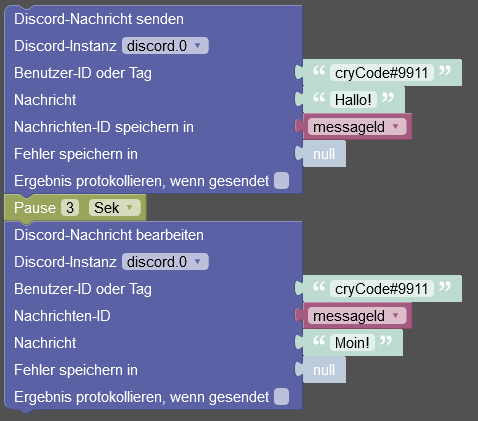
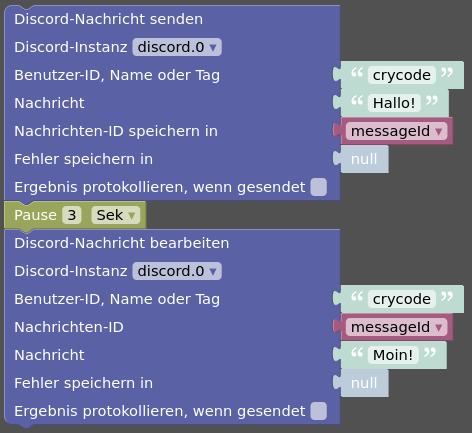
Updated docs

diff --git a/docs/de/README.md b/docs/de/README.md
@@ -188,7 +188,7 @@ Bots festzulegen, wie es den Benutzern angezeigt werden soll.
 | `members` | Mit Komma getrennte Liste der Mitglieder (Anzeigenamen) des Kanals. |
 | `message` | Letzte empfangene Nachricht in diesem Kanal. |
 | `messageId` | ID der letzten empfangenen Nachricht. |
-| `messageAuthor` | Verfasser (Benutzer-Tag) der letzten empfangenen Nachricht. |
+| `messageAuthor` | Verfasser (einmaliger Benutzername oder Benutzer-Tag) der letzten empfangenen Nachricht. |
 | `messageTimestamp` | Zeitstempel der letzten empfangenen Nachricht. |
 | `messageJson` | JSON-Daten der letzten empfangenen Nachricht. |
 | `send` | Senden von Texten oder JSON-formatierten Nachrichten. |
@@ -204,6 +204,7 @@ Zu allen `message*` und `send*` Zuständen siehe den Abschnitt _Nachrichten_ wei
 | Name | Beschreibung |
 |---|---|
 | `tag` | Der eindeutige Tag des Benutzers in Discord. |
+| `name` | Der Name des Benutzers in Discord. (einmalig, wenn `tag` mit `#0` endet) |
 | `displayName` | Der Anzeigename des Benutzers auf dem Server. |
 | `roles` | Mit Komma getrennte Liste der Rollen des Benutzers auf dem Server. |
 | `joinedAt` | Zeitstempel, wann der Benutzer dem Server beigetreten ist. |
@@ -223,6 +224,7 @@ Für die Verwendung der Aktionen `voiceDisconnect`, `voiceServerDeaf` und `voice
 | Name | Beschreibung |
 |---|---|
 | `tag` | Der eindeutige Tag des Benutzers in Discord. |
+| `name` | Der Name des Benutzers in Discord. (einmalig, wenn `tag` mit `#0` endet) |
 | `status` | Der Anwesenheitsstatus des Benutzers. Eins von `online`, `offline`, `idle`, `dnd` |
 | `activityType` | Die Art der momentanen Aktivität des Benutzers. Eins von `Playing`, `Streaming`, `Listening`, `Watching`, `Competing`, `Custom` oder ein leerer String. |
 | `activityName` | Der Name der momentanen Aktivität des Benutzers. Z.B. der Name eines Spiels während `Playing`. |
@@ -257,6 +259,7 @@ aktualisiert.
 | `interactionId` | ID der letzten Nutzung des Befehls. |
 | `userId` | ID des Benutzers, der den Befehl aufgerufen hat. |
 | `userTag` | Eindeutiger Tag des Benutzers, der den Befehl aufgerufen hat. |
+| `userName` | Der Name des Benutzers, der den Befehl aufgerufen hat. (einmalig, wenn `userTag` mit `#0` endet) |
 | `channelId` | ID des Kanals, in dem der Befehl aufgerufen wurde. |
 | `serverId` | ID des Servers, in dem der Befehl aufgerufen wurde, oder `null` wenn der Befehl in einer Direktnachricht aufgerufen wurde. |
 | `timestamp` | Zeitstempel der letzten Nutzung des Befehls. |
@@ -642,6 +645,7 @@ Dabei wird die Antwort editiert und mit dem neuen Inhalt überschrieben.
   user: {
     id: string,
     tag: string,
+    name: string,
     displayName: string,
   },
   channelId: string,
@@ -654,10 +658,13 @@ Dabei wird die Antwort editiert und mit dem neuen Inhalt überschrieben.
       user?: { // wenn type USER oder MENIONABLE ist
         id: string,
         tag: string,
+        name: string,
         bot: boolean,
       },
       member?: { // wenn type USER oder MENIONABLE ist und der Befehl auf einem Server aufgerufen wurde
         id: string,
+        tag: string,
+        name: string,
         displayName: string,
         roles: { id: string, name: string }[],
       },
@@ -702,12 +709,12 @@ Der Adapter bringt eigene Blockly-Blöcke mit, zum ...
   <variables>
     <variable id="KIILW$,(eB?pT`;GDuMF">messageId</variable>
   </variables>
-  <block type="discord_send_message_user" id="?xkCV};-Lk_-|Q`]%(Gt" x="63" y="38">
+  <block type="discord_send_message_user" id="?xkCV};-Lk_-|Q`]%(Gt" x="163" y="38">
     <field name="instance">.0</field>
     <field name="logResultOk">FALSE</field>
     <value name="user">
       <shadow type="text" id="jXN@CluUy_M/ig@4[(Uk">
-        <field name="TEXT">cryCode#9911</field>
+        <field name="TEXT">crycode</field>
       </shadow>
     </value>
     <value name="content">
@@ -734,7 +741,7 @@ Der Adapter bringt eigene Blockly-Blöcke mit, zum ...
             <field name="logResultOk">FALSE</field>
             <value name="user">
               <shadow type="text" id="voJ:{uuYtbBZ!Xe,rtV|">
-                <field name="TEXT">cryCode#9911</field>
+                <field name="TEXT">crycode</field>
               </shadow>
             </value>
             <value name="messageId">
@@ -897,7 +904,7 @@ Der Adapter bringt eigene Blockly-Blöcke mit, zum ...
 <xml xmlns="https://developers.google.com/blockly/xml">
   <variables>
     <variable id="Wcj[Gmy,vX]b,)s,O)`U">interactionId</variable>
-    <variable id="{sXn[Mn@ZN#fWtTV6O^;">userTag</variable>
+    <variable id="{sXn[Mn@ZN#fWtTV6O^;">userName</variable>
     <variable id="ULmVI=-QcXLnD!e60KTV">camID</variable>
   </variables>
   <block type="discord_on_custom_cmd" id="GE,i32wKhz%KGlBhV$j=" x="63" y="13">
@@ -909,11 +916,13 @@ Der Adapter bringt eigene Blockly-Blöcke mit, zum ...
     <value name="varUserId">
       <shadow type="logic_null" id="/}0,E!Gq=C2U]C^.8m1@"></shadow>
     </value>
+    <value name="varUserName">
+      <block type="variables_get" id="Q=v?u?yU}Tw*@FH*|x7.">
+        <field name="VAR" id="{sXn[Mn@ZN#fWtTV6O^;">userName</field>
+      </block>
+    </value>
     <value name="varUserTag">
       <shadow type="logic_null" id="+r2I4SpfhuW%9DE21,[c"></shadow>
-      <block type="variables_get" id="Q=v?u?yU}Tw*@FH*|x7.">
-        <field name="VAR" id="{sXn[Mn@ZN#fWtTV6O^;">userTag</field>
-      </block>
     </value>
     <value name="option0">
       <shadow type="logic_null" id="hL^g}gJg-b.+SOH0s9m1"></shadow>
@@ -944,7 +953,7 @@ Der Adapter bringt eigene Blockly-Blöcke mit, zum ...
                 </value>
                 <value name="ADD1">
                   <block type="variables_get" id="|[[T@|n1Ro{EU56/jJ@P">
-                    <field name="VAR" id="{sXn[Mn@ZN#fWtTV6O^;">userTag</field>
+                    <field name="VAR" id="{sXn[Mn@ZN#fWtTV6O^;">userName</field>
                   </block>
                 </value>
                 <value name="ADD2">
@@ -1031,6 +1040,7 @@ Der `message` Teil von `sendTo(...)` muss ein Objekt mit dem zu sendenden
 
 * `userId`
 * `userTag`
+* `userName`
 * `serverId` und `channelId`
 
 Der `content` kann ein einfacher String oder ein [MessageOptions]-Objekt sein.
@@ -1043,7 +1053,23 @@ Falle eines Fehlers enthält.
 Beispiele:
 
 ```js
-// Senden einer Nachricht zu einem Benutzer
+// Senden einer Nachricht zu einem Benutzer bei Verwendung des einmaligen Benutzernamens
+sendTo('discord.0', 'sendMessage', {
+  userName: 'crycode',
+  content: 'Hi!',
+}, (ret) => {
+  log(ret);
+  // {'result':'Message sent to user crycode','userName':'crycode','content':'Hi!','messageId':'971779972052155891'}
+
+  if (ret.error) {
+    log(ret.error, 'error');
+    return;
+  }
+  log(`Nachricht gesendet mit ID ${ret.messageId}`);
+});
+
+// Senden einer Nachricht zu einem Benutzer bei Verwendung des Benutzer-Tags
+// (für Bots und Benutzer, die noch nicht zu einem einmaligen Benutzernamen migriert sind)
 sendTo('discord.0', 'sendMessage', {
   userTag: 'cryCode#9911',
   content: 'Hi!',
@@ -1069,7 +1095,7 @@ sendTo('discord.0', 'sendMessage', {
   },
 }, (ret) => {
   log(ret);
-  // {'result':'Message sent to user cryCode#9911','userId':'490222742801481728','content':{'content':'Ok!','reply':{'messageReference':'971779972052160552'}},'messageId':'971786369401761832'}
+  // {'result':'Message sent to user crycode','userId':'490222742801481728','content':{'content':'Ok!','reply':{'messageReference':'971779972052160552'}},'messageId':'971786369401761832'}
 });
 
 // Senden einer Datei an einen Serverkanal
@@ -1107,17 +1133,17 @@ Beispiele:
 ```js
 // Eine Nachricht bearbeiten
 sendTo('discord.0', 'editMessage', {
-  userTag: 'cryCode#9911',
+  userName: 'crycode',
   content: 'Hallo!',
   messageId: '971495175367049276',
 }, (ret) => {
   log(ret);
-  // {'result':'Message edited','userTag':'cryCode#9911','content':'Hallo!','messageId':'971495175367049276'}
+  // {'result':'Message edited','userName':'crycode','content':'Hallo!','messageId':'971495175367049276'}
 });
 
 // Nachricht senden und nach fünf Sekunden bearbeiten
 sendTo('discord.0', 'sendMessage', {
-    userTag: 'cryCode#9911',
+    userName: 'crycode',
     content: 'Es ist jetzt: ' + new Date().toLocaleString(),
 }, (ret) => {
   if (ret.error) {
@@ -1126,12 +1152,12 @@ sendTo('discord.0', 'sendMessage', {
   }
   setTimeout(() => {
     sendTo('discord.0', 'editMessage', {
-      userTag: 'cryCode#9911',
+      userName: 'crycode',
       content:  'Es ist jetzt: ' + new Date().toLocaleString(),
       messageId: ret.messageId,
     }, (ret2) => {
       log(ret2);
-      // {'result':'Message edited','userTag':'cryCode#9911','content':'Es ist jetzt: 5.5.2022, 16:25:38','messageId':'971779692166266920'}
+      // {'result':'Message edited','userName':'crycode','content':'Es ist jetzt: 5.5.2022, 16:25:38','messageId':'971779692166266920'}
     });
   }, 5000);
 });
@@ -1153,11 +1179,11 @@ Beispiel:
 ```js
 // Löschen einer Nachricht
 sendTo('discord.0', 'deleteMessage', {
-  userTag: 'cryCode#9911',
+  userName: 'crycode',
   messageId: '971495175367049276',
 }, (ret) => {
   log(ret);
-  // {'result':'Message deleted','userTag':'cryCode#9911','messageId':'971495175367049276'}
+  // {'result':'Message deleted','userName':'crycode','messageId':'971495175367049276'}
 });
 ```
 
@@ -1177,12 +1203,12 @@ Beispiel:
 ```js
 // Hinzufügen einer Reaktion auf eine Nachricht
 sendTo('discord.0', 'addReaction', {
-  userTag: 'cryCode#9911',
+  userName: 'crycode',
   messageId: '971786369401761832',
   emoji: '😎',
 }, (ret) => {
   log(ret);
-  // {'result':'Reaction added to message','userTag':'cryCode#9911','messageId':'971786369401761832','emoji':'😎'}
+  // {'result':'Reaction added to message','userName':'crycode','messageId':'971786369401761832','emoji':'😎'}
 });
 ```
 
@@ -1219,7 +1245,7 @@ sendTo('discord.0', 'awaitMessageReaction', {
   max: 3,
 }, (ret) => {
   log(ret);
-  // {'reactions':[{'emoji':'👍','emojiId':null,'users':[{'id':'490222742801481728','tag':'cryCode#9911'}]}],'serverId':'813364154118963251','channelId':'813364154559102998','messageId':'970754574879162458','timeout':10000,'max':3}
+  // {'reactions':[{'emoji':'👍','emojiId':null,'users':[{'id':'490222742801481728', 'name': 'crycode','tag':'crycode#0'}]}],'serverId':'813364154118963251','channelId':'813364154559102998','messageId':'970754574879162458','timeout':10000,'max':3}
 });
 ```
 
@@ -1237,7 +1263,7 @@ Der `content` kann ein einfacher String oder ein [MessageOptions]-Objekt sein
 ```js
 on({ id: 'discord.0.slashCommands.iob-test.json', change: 'any', ack: true }, (obj) => {
   log(`Benutzerdefinierter Slash-Befehl ${obj.state.val}`);
-  // Benutzerdefinierter Slash-Befehl {"interactionId":"977265764136517725","commandName":"iob-test","channelId":"813364154559102998","serverId":"813364154118963251","user":{"id":"490222742801481728","tag":"cryCode#9911","displayName":"Peter"},"timestamp":1653068714890,"options":{"myopt":{"value":"test","type":"String"}}}
+  // Benutzerdefinierter Slash-Befehl {"interactionId":"977265764136517725","commandName":"iob-test","channelId":"813364154559102998","serverId":"813364154118963251","user":{"id":"490222742801481728", "name":"crycode","tag":"crycode#0","displayName":"Peter"},"timestamp":1653068714890,"options":{"myopt":{"value":"test","type":"String"}}}
 
   const data = JSON.parse(obj.state.val);
 

diff --git a/docs/en/README.md b/docs/en/README.md
@@ -657,17 +657,17 @@ The adapter ships with it's own Blockly blocks for ...
   <variables>
     <variable id="KIILW$,(eB?pT`;GDuMF">messageId</variable>
   </variables>
-  <block type="discord_send_message_user" id="?xkCV};-Lk_-|Q`]%(Gt" x="63" y="38">
+  <block type="discord_send_message_user" id="?xkCV};-Lk_-|Q`]%(Gt" x="163" y="38">
     <field name="instance">.0</field>
     <field name="logResultOk">FALSE</field>
     <value name="user">
       <shadow type="text" id="jXN@CluUy_M/ig@4[(Uk">
-        <field name="TEXT">cryCode#9911</field>
+        <field name="TEXT">crycode</field>
       </shadow>
     </value>
     <value name="content">
       <shadow type="text" id="uLWu1CJ$;k}|VTyw1-8}">
-        <field name="TEXT">Hello!</field>
+        <field name="TEXT">Hallo!</field>
       </shadow>
     </value>
     <value name="varMessageId">
@@ -689,7 +689,7 @@ The adapter ships with it's own Blockly blocks for ...
             <field name="logResultOk">FALSE</field>
             <value name="user">
               <shadow type="text" id="voJ:{uuYtbBZ!Xe,rtV|">
-                <field name="TEXT">cryCode#9911</field>
+                <field name="TEXT">crycode</field>
               </shadow>
             </value>
             <value name="messageId">
@@ -702,7 +702,7 @@ The adapter ships with it's own Blockly blocks for ...
             </value>
             <value name="content">
               <shadow type="text" id="rvnV^RF,g$M/3+(npHNC">
-                <field name="TEXT">Hey!</field>
+                <field name="TEXT">Moin!</field>
               </shadow>
             </value>
             <value name="varError">
@@ -851,7 +851,7 @@ The adapter ships with it's own Blockly blocks for ...
 <xml xmlns="https://developers.google.com/blockly/xml">
   <variables>
     <variable id="Wcj[Gmy,vX]b,)s,O)`U">interactionId</variable>
-    <variable id="{sXn[Mn@ZN#fWtTV6O^;">userTag</variable>
+    <variable id="{sXn[Mn@ZN#fWtTV6O^;">userName</variable>
     <variable id="ULmVI=-QcXLnD!e60KTV">camID</variable>
   </variables>
   <block type="discord_on_custom_cmd" id="GE,i32wKhz%KGlBhV$j=" x="63" y="13">
@@ -863,11 +863,13 @@ The adapter ships with it's own Blockly blocks for ...
     <value name="varUserId">
       <shadow type="logic_null" id="/}0,E!Gq=C2U]C^.8m1@"></shadow>
     </value>
+    <value name="varUserName">
+      <block type="variables_get" id="Q=v?u?yU}Tw*@FH*|x7.">
+        <field name="VAR" id="{sXn[Mn@ZN#fWtTV6O^;">userName</field>
+      </block>
+    </value>
     <value name="varUserTag">
       <shadow type="logic_null" id="+r2I4SpfhuW%9DE21,[c"></shadow>
-      <block type="variables_get" id="Q=v?u?yU}Tw*@FH*|x7.">
-        <field name="VAR" id="{sXn[Mn@ZN#fWtTV6O^;">userTag</field>
-      </block>
     </value>
     <value name="option0">
       <shadow type="logic_null" id="hL^g}gJg-b.+SOH0s9m1"></shadow>
@@ -898,7 +900,7 @@ The adapter ships with it's own Blockly blocks for ...
                 </value>
                 <value name="ADD1">
                   <block type="variables_get" id="|[[T@|n1Ro{EU56/jJ@P">
-                    <field name="VAR" id="{sXn[Mn@ZN#fWtTV6O^;">userTag</field>
+                    <field name="VAR" id="{sXn[Mn@ZN#fWtTV6O^;">userName</field>
                   </block>
                 </value>
                 <value name="ADD2">
@@ -1034,7 +1036,7 @@ sendTo('discord.0', 'sendMessage', {
   },
 }, (ret) => {
   log(ret);
-  // {'result':'Message sent to user cryCode#9911','userId':'490222742801481728','content':{'content':'Ok!','reply':{'messageReference':'971779972052160552'}},'messageId':'971786369401761832'}
+  // {'result':'Message sent to user crycode','userId':'490222742801481728','content':{'content':'Ok!','reply':{'messageReference':'971779972052160552'}},'messageId':'971786369401761832'}
 });
 
 // send a file to a server channel
